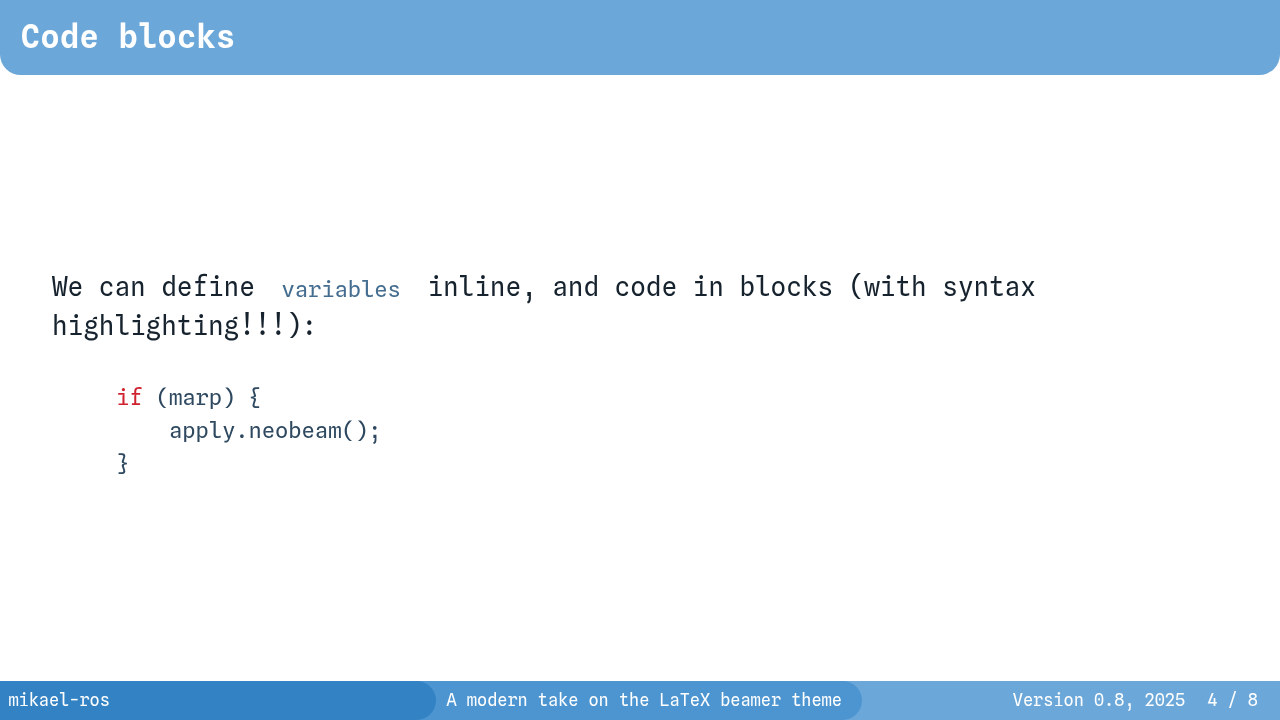
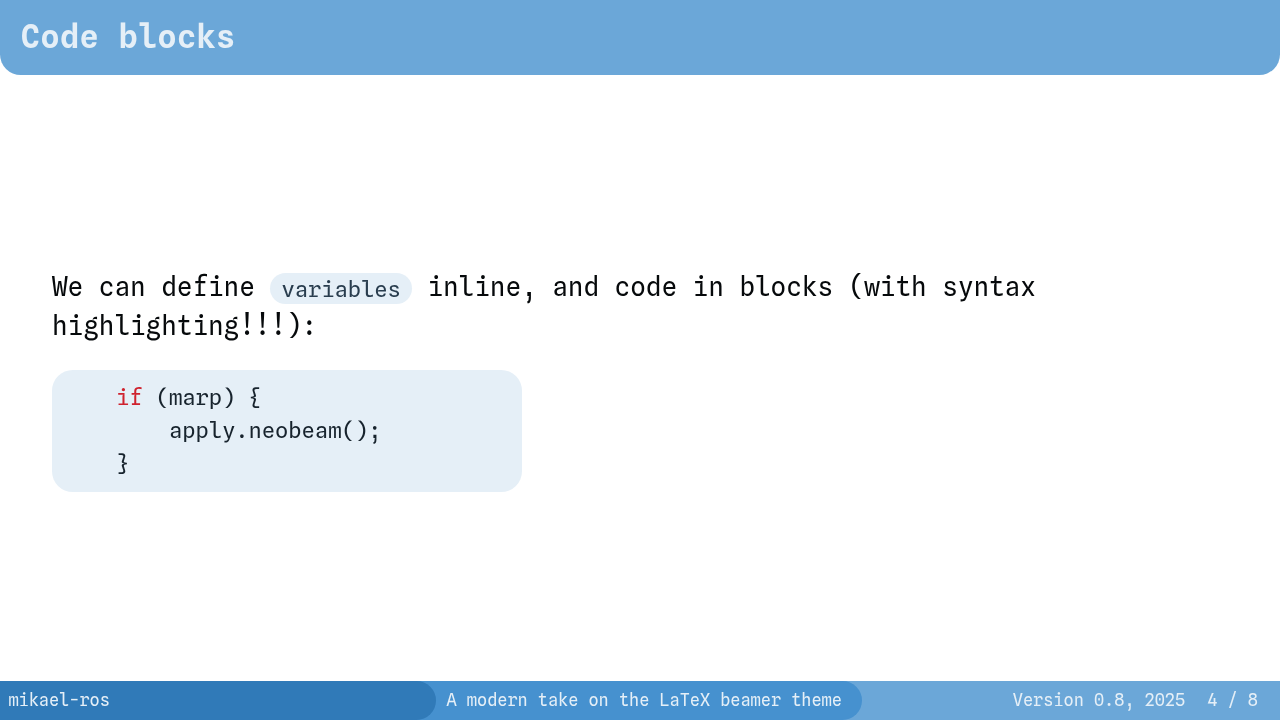
Tweaked Embracket theme

diff --git a/css/neobeam-embracket.css b/css/neobeam-embracket.css
@@ -16,11 +16,11 @@
     /* -- Colors -- */
     /* Primary, and variations */
     --primary:          #6ba7d8;
-    --saturation-multiplier: .6;
-    --saturation-decreaser: .25;
-    --brightness-multiplier: 1.4;
-    --brightness-decreaser: 1;
-    --color-shift: 120;
+    --saturation-multiplier: .5;
+    --saturation-decreaser: .3;
+    --brightness-multiplier: 1;
+    --brightness-decreaser: 1.2;
+    --color-shift: 70;
 
     --default-font: "Spline Sans Mono";
     --monospace-font: "Spline Sans Mono";

diff --git a/readme.md b/readme.md
@@ -178,7 +178,7 @@ There is light HTML support, including the elements:
 - ``<audio>`` (audio)
 - ``<abbr>`` (abbreviations).
 
-To enable HTML support add or modify the line ``"markdown.marp.enableHtml": true`` in ``.vscode/settings.json``. 
+To enable HTML support add or modify the line ``"markdown.marp.html": true`` in ``.vscode/settings.json`` (or globally). 
 
 > [!WARNING] 
 > Considering the [security issues mentioned in Marps documentation](https://github.com/marp-team/marp-vscode#enable-html-in-marp-markdown-%EF%B8%8F), this is disabled by default, even in the template. You may need to restart Visual Studio Code after changing the setting. You will need to export in HTML for interactive elements to function.

diff --git a/example/example.md b/example/example.md
@@ -56,7 +56,6 @@ We can define ``variables`` inline, and code in blocks (with syntax highlighting
 > $$
 ||\overline v|| = \sqrt{a^2 + b^2} \\
 \text{where } \overline v = (a,b)
-$$
 ## Definitions
 Blockquotes with level 4 (####) headings inside get translated to definitions like:
 
